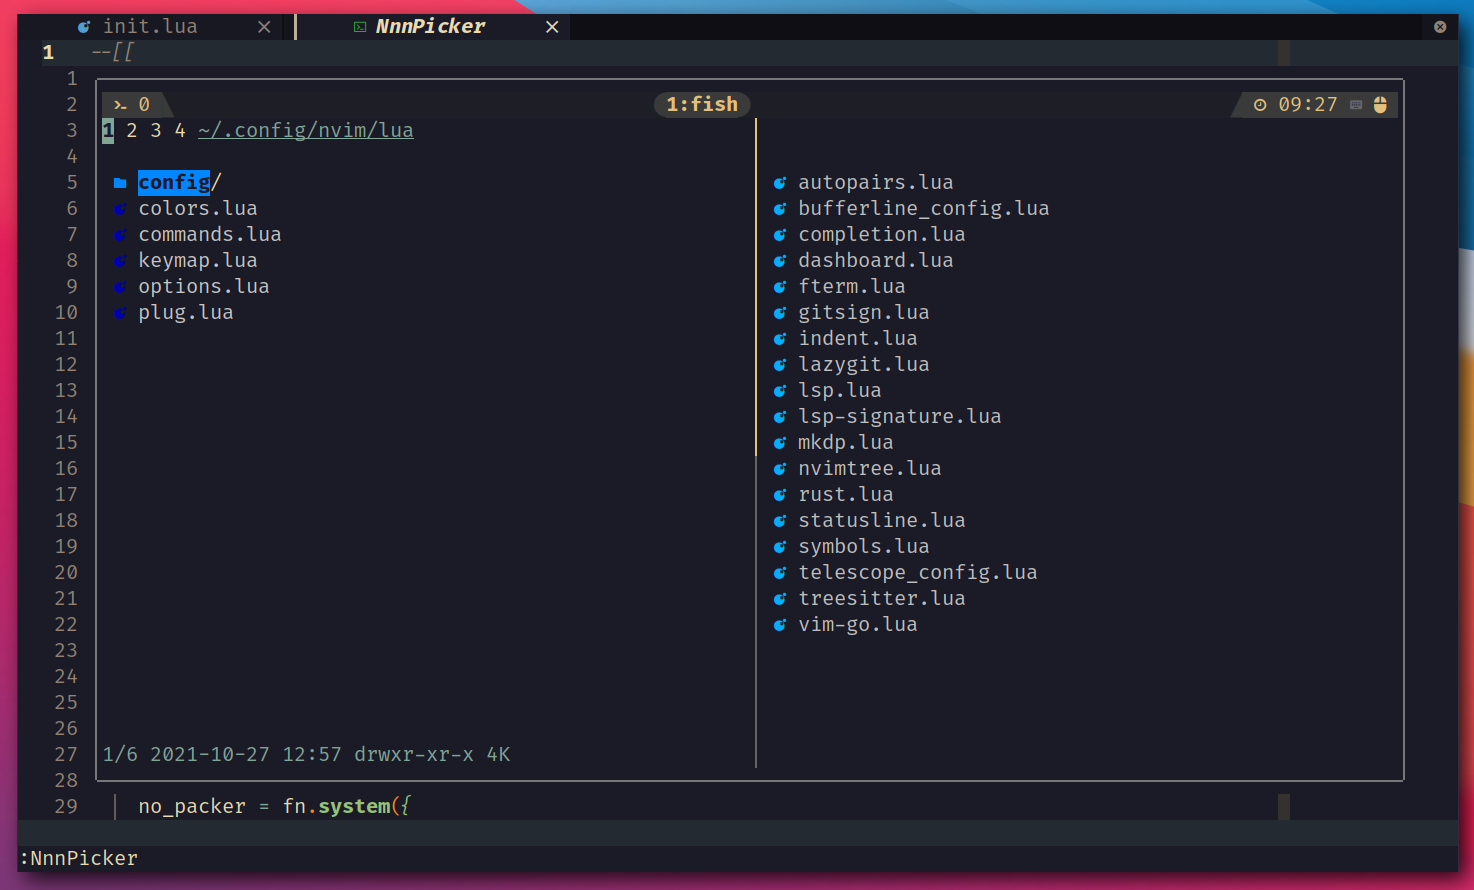
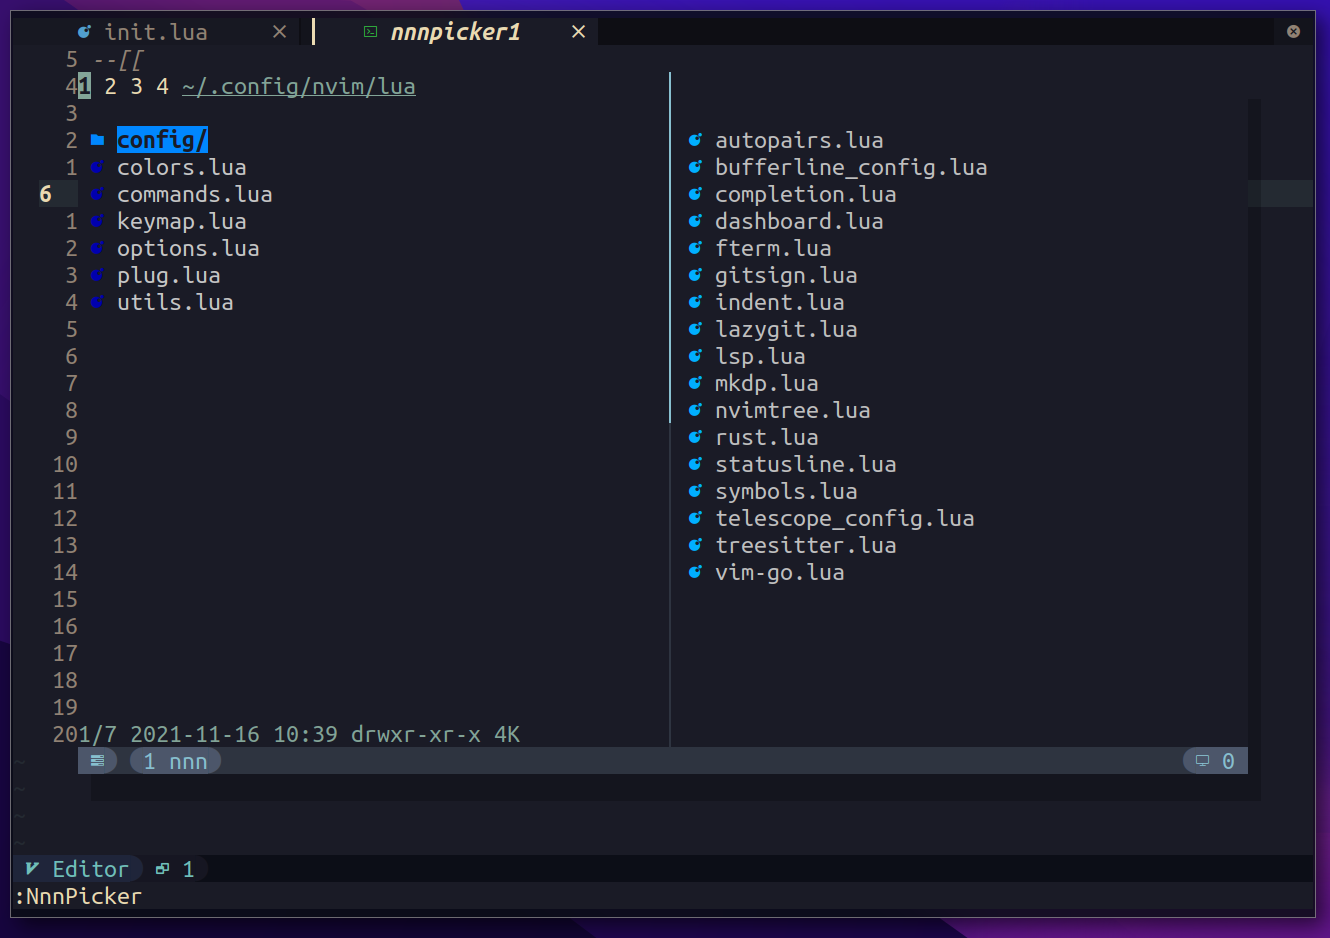
C/image: update all the screenshot
After the status line update, the neovim seem more better now.

Changed region(s): [[0.0, 0.0, 1.0, 1.0], [0.4316, 0.091, 0.7398, 0.7281]]

diff --git a/README.md b/README.md
@@ -192,3 +192,7 @@ Users only need to take a look on commit with `!` prefix and `N` prefix.
 
 ![diff-view](./image/diff-view.png)
 
+#### fugitive
+
+![fugitive](./image/neovim-fugitive.png)
+
